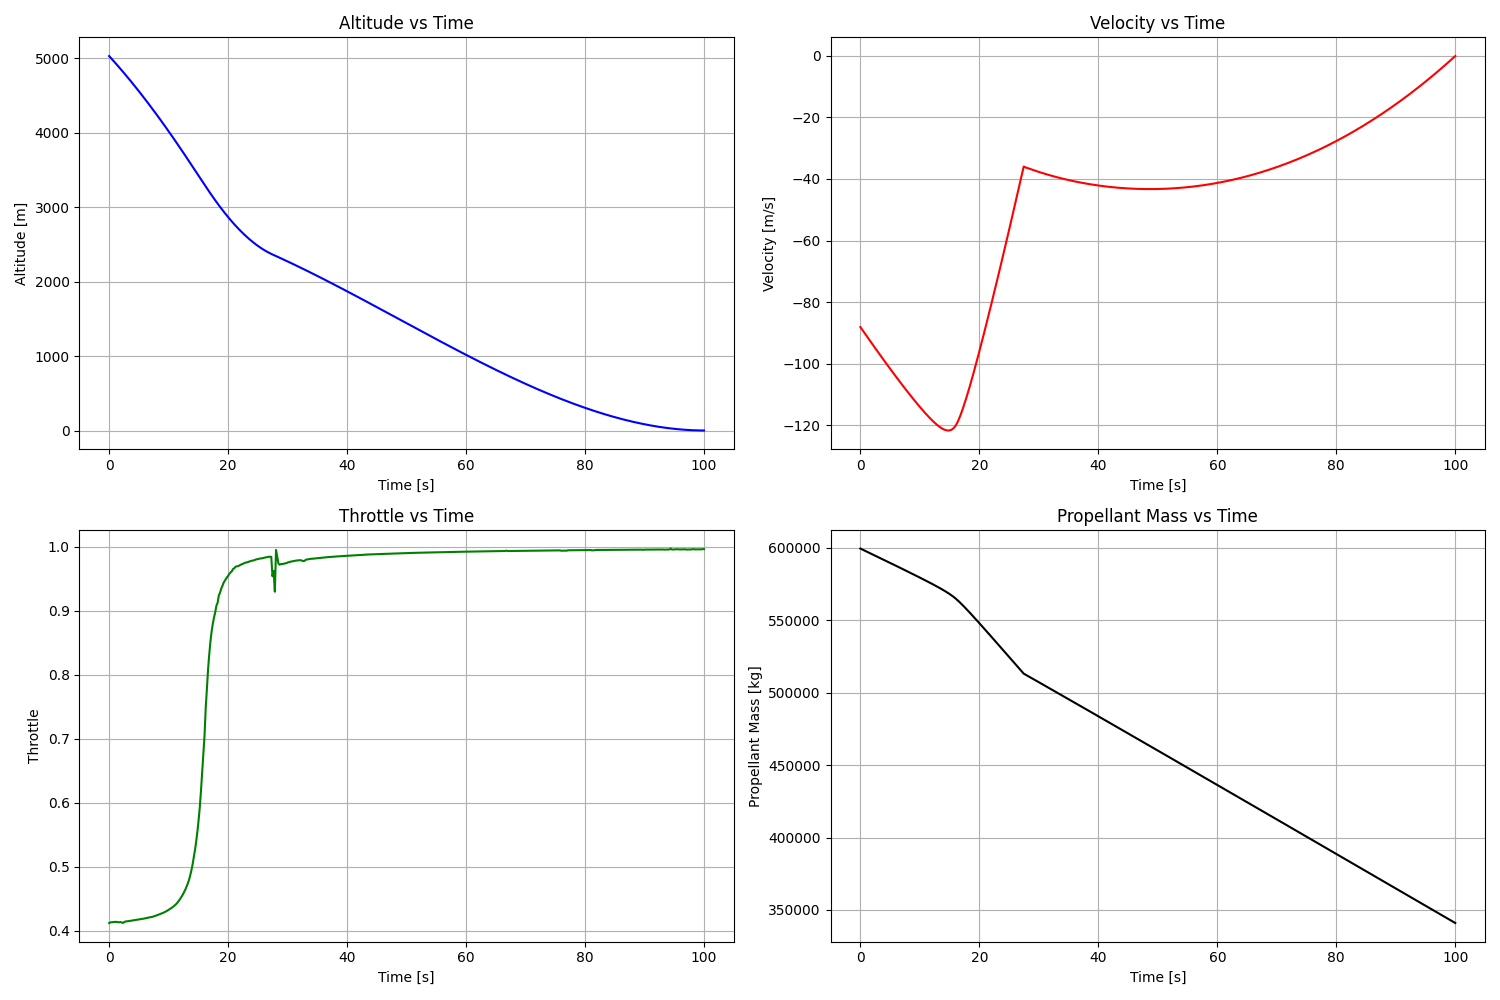
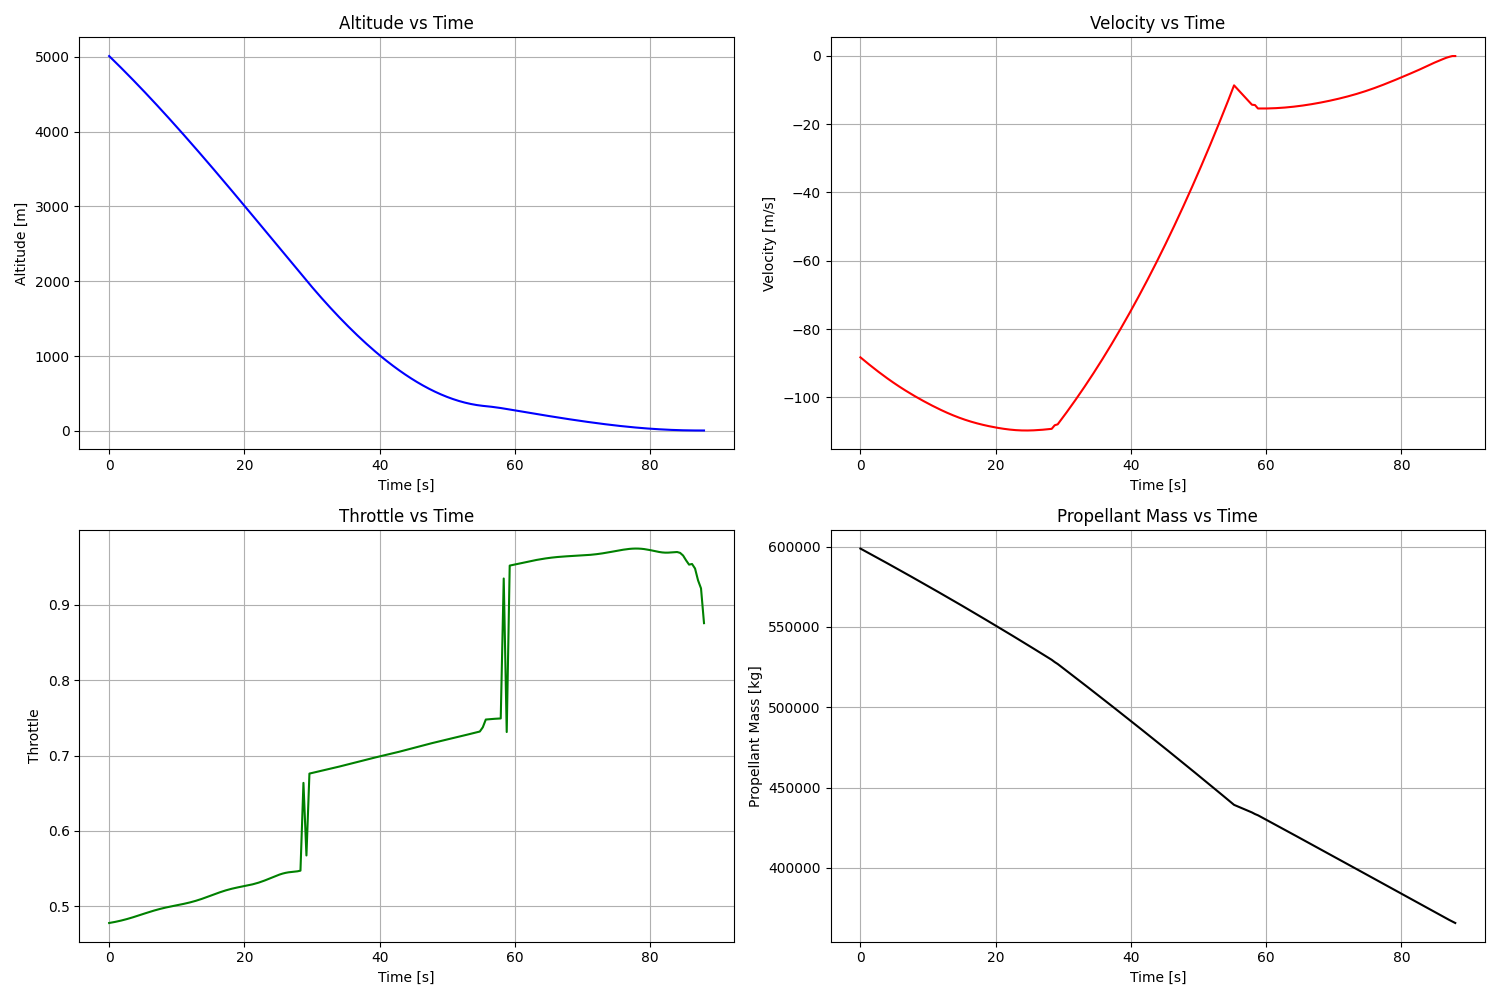
landing burn (vertical) done, yay

diff --git a/main_landing_burn.py b/main_landing_burn.py
@@ -1,10 +1,10 @@
+import os
 import csv
 import numpy as np
 import pandas as pd
 import matplotlib.pyplot as plt
 from scipy.optimize import minimize
 from torch.utils.tensorboard import SummaryWriter
-import os
 
 # Load parameters from rocket parameters
 sizing_results = {}
@@ -38,7 +38,7 @@ a_lapse = -0.0065   # temperature lapse rate [K/m]
 R = 287.05          # specific gas constant [J/(kg·K)]
 
 # Discretisation
-N = 500             # number of time intervals
+N = 200             # number of time intervals
 T_burn_min = 10.0    # minimum burn time [s]
 T_burn_max = 100.0    # maximum burn time [s]
 T_outer_engine_cutoff_min = 0.0
@@ -94,9 +94,10 @@ def objective(x, sim_results=None):
     if sim_results is None:
         sim_results = callback.run_simulation(x)
     u = x[:-2] # throttle
+    t_burn = x[-2]
     # Regularisation smoother
-    smoothness_penalty = abs(np.sum(np.diff(u)**2))
-    return (m0 - sim_results[2])/1000 + smoothness_penalty
+    smoothness_penalty = abs(np.sum(np.diff(u)**2))/t_burn
+    return (m0 - sim_results[2])/1000 + smoothness_penalty*20
 
 # Constraints
 def constr_final_y(x):
@@ -125,7 +126,7 @@ def constr_vy_dot(x):
     sim_results = callback.run_simulation(x)
     vy_dot = sim_results[5]
     # Must be close to 0
-    return vy_dot_margin - abs(vy_dot) # must be >= 0
+    return (vy_dot_margin - abs(vy_dot))*2 # must be >= 0
 
 # Callback function to print iteration information and collect data
 class OptimizationCallback:
@@ -187,17 +188,17 @@ class OptimizationCallback:
         self.vy_dot_violations.append(vy_dot_violation)  # Store vy_dot violation
         
         # Log data to TensorBoard every 10 iterations
-        if len(self.iterations) % 10 == 0:
-            self.writer.add_scalar('Objective', obj_val, len(self.iterations))
-            self.writer.add_scalar('Final Altitude Violation', y_violation, len(self.iterations))
-            self.writer.add_scalar('Final Velocity Violation', v_violation, len(self.iterations))
-            self.writer.add_scalar('Max Dynamic Pressure Violation', max_dynamic_violation, len(self.iterations))
-            self.writer.add_scalar('Propellant Mass Violation', prop_violation, len(self.iterations))
-            self.writer.add_scalar('Burn Time', xk[-2], len(self.iterations))
-            self.writer.add_scalar('Final Altitude', y_final, len(self.iterations))
-            self.writer.add_scalar('Final Velocity', v_final, len(self.iterations))
-            self.writer.add_scalar('Minimum Propellant Mass', min_mp, len(self.iterations))
-            self.writer.add_scalar('Vy Dot Violation', vy_dot_violation, len(self.iterations))  # Log vy_dot violation
+        self.writer.add_scalar('Objective', obj_val, len(self.iterations))
+        self.writer.add_scalar('Final Altitude Violation', y_violation, len(self.iterations))
+        self.writer.add_scalar('Final Velocity Violation', v_violation, len(self.iterations))
+        self.writer.add_scalar('Max Dynamic Pressure Violation', max_dynamic_violation, len(self.iterations))
+        self.writer.add_scalar('Propellant Mass Violation', prop_violation, len(self.iterations))
+        self.writer.add_scalar('Burn Time', xk[-2], len(self.iterations))
+        self.writer.add_scalar('Outer Engine Cutoff Time', xk[-1], len(self.iterations))
+        self.writer.add_scalar('Final Altitude', y_final, len(self.iterations))
+        self.writer.add_scalar('Final Velocity', v_final, len(self.iterations))
+        self.writer.add_scalar('Minimum Propellant Mass', min_mp, len(self.iterations))
+        self.writer.add_scalar('Vy Dot Violation', vy_dot_violation, len(self.iterations))  # Log vy_dot violation
         '''
         print(f"\nIteration Information:")
         print(f"Burn time: {xk[-2]:.2f} s")
@@ -241,7 +242,7 @@ def plot_optimization_history(callback):
     plt.close()
 
 def plot_simulation_results(u_opt, T_burn_opt, T_outer_engine_cutoff_opt):
-    ys, vys, m_final, margins, mps = simulate(u_opt, T_burn_opt, T_outer_engine_cutoff_opt)
+    ys, vys, m_final, margins, mps, vy_dot = simulate(u_opt, T_burn_opt, T_outer_engine_cutoff_opt)
     u_opt = np.clip(u_opt, 0, 1) # just in case
     throttle_opt = u_opt * (1 - minimum_throttle) + minimum_throttle
     t = np.linspace(0, T_burn_opt, N)
@@ -253,7 +254,7 @@ def plot_simulation_results(u_opt, T_burn_opt, T_outer_engine_cutoff_opt):
         writer.writerow(['Time [s]', 'Altitude [m]', 'Velocity [m/s]', 'Non-NominalThrottle', 'Propellant Mass [kg]', 'Total Mass [kg]'])
         for i in range(N):
             writer.writerow([t[i], ys[i], vys[i], throttle_opt[i], mps[i], total_masses[i]])
-    
+
     plt.figure(figsize=(15, 10))
     
     plt.subplot(2, 2, 1)
@@ -319,11 +320,11 @@ def save_final_parameters(u_opt, T_burn_opt, T_outer_engine_cutoff_opt, filename
 
 # Initial guess
 u0 = np.zeros(N)
-u0[:N//3] = 0.7
-u0[N//3:2*N//3] = 0.95
+u0[:N//3] = 0.4
+u0[N//3:2*N//3] = 0.6
 u0[2*N//3:] = 0.95
-T_burn0 = 90.0
-T_outer_engine_cutoff0 = 30.0
+T_burn0 = 88.0
+T_outer_engine_cutoff0 = 55.0
 x0 = np.append(u0, [T_burn0, T_outer_engine_cutoff0])
 
 # Bounds for throttle (0 to 1), burn time (T_burn_min to T_burn_max), and outer engine cutoff time (T_outer_engine_cutoff_min to T_outer_engine_cutoff_max)
@@ -349,8 +350,8 @@ result = minimize(
     options={
         'maxiter': 50,
         'verbose': 2,
-        'gtol': 4e-1,
-        'xtol': 4e-1,
+        'gtol': 4e-4,
+        'xtol': 4e-4,
         'barrier_tol': 1e-4,
         'initial_tr_radius': 1.0
     },

diff --git a/main_exo_propelled.py b/main_exo_propelled.py
@@ -1,0 +1,28 @@
+import csv
+import pandas as pd
+
+sizing_results = {}
+with open('data/rocket_parameters/sizing_results.csv', 'r') as file:
+    reader = csv.reader(file)
+    for row in reader:
+        sizing_results[row[0]] = row[2]
+
+# Parameters
+m_strc = float(sizing_results['Actual structural mass stage 2'])*1000
+mass_prop_0 = float(sizing_results['Actual propellant mass stage 2'])*1000
+mass_0 = m_strc + mass_prop_0
+v_ex = float(sizing_results['Exhaust velocity stage 2'])
+T_e = float(sizing_results['Thrust engine stage 2'])
+
+# Extract initial state
+data = pd.read_csv('data/reference_trajectory/ascent_controls/supersonic_state_action_ascent_control.csv')
+
+# Extract initial state
+t_0 = data['Time [s]'].iloc[0]
+x_0 = data['x[m]'].iloc[0]
+y_0 = data['y[m]'].iloc[0]
+vx_0 = data['vx[m/s]'].iloc[0]
+vy_0 = data['vy[m/s]'].iloc[0]
+theta_0 = data['theta[rad]'].iloc[0]
+theta_dot_0 = data['theta_dot[rad/s]'].iloc[0]
+alpha_0 = data['alpha[rad]'].iloc[0]
